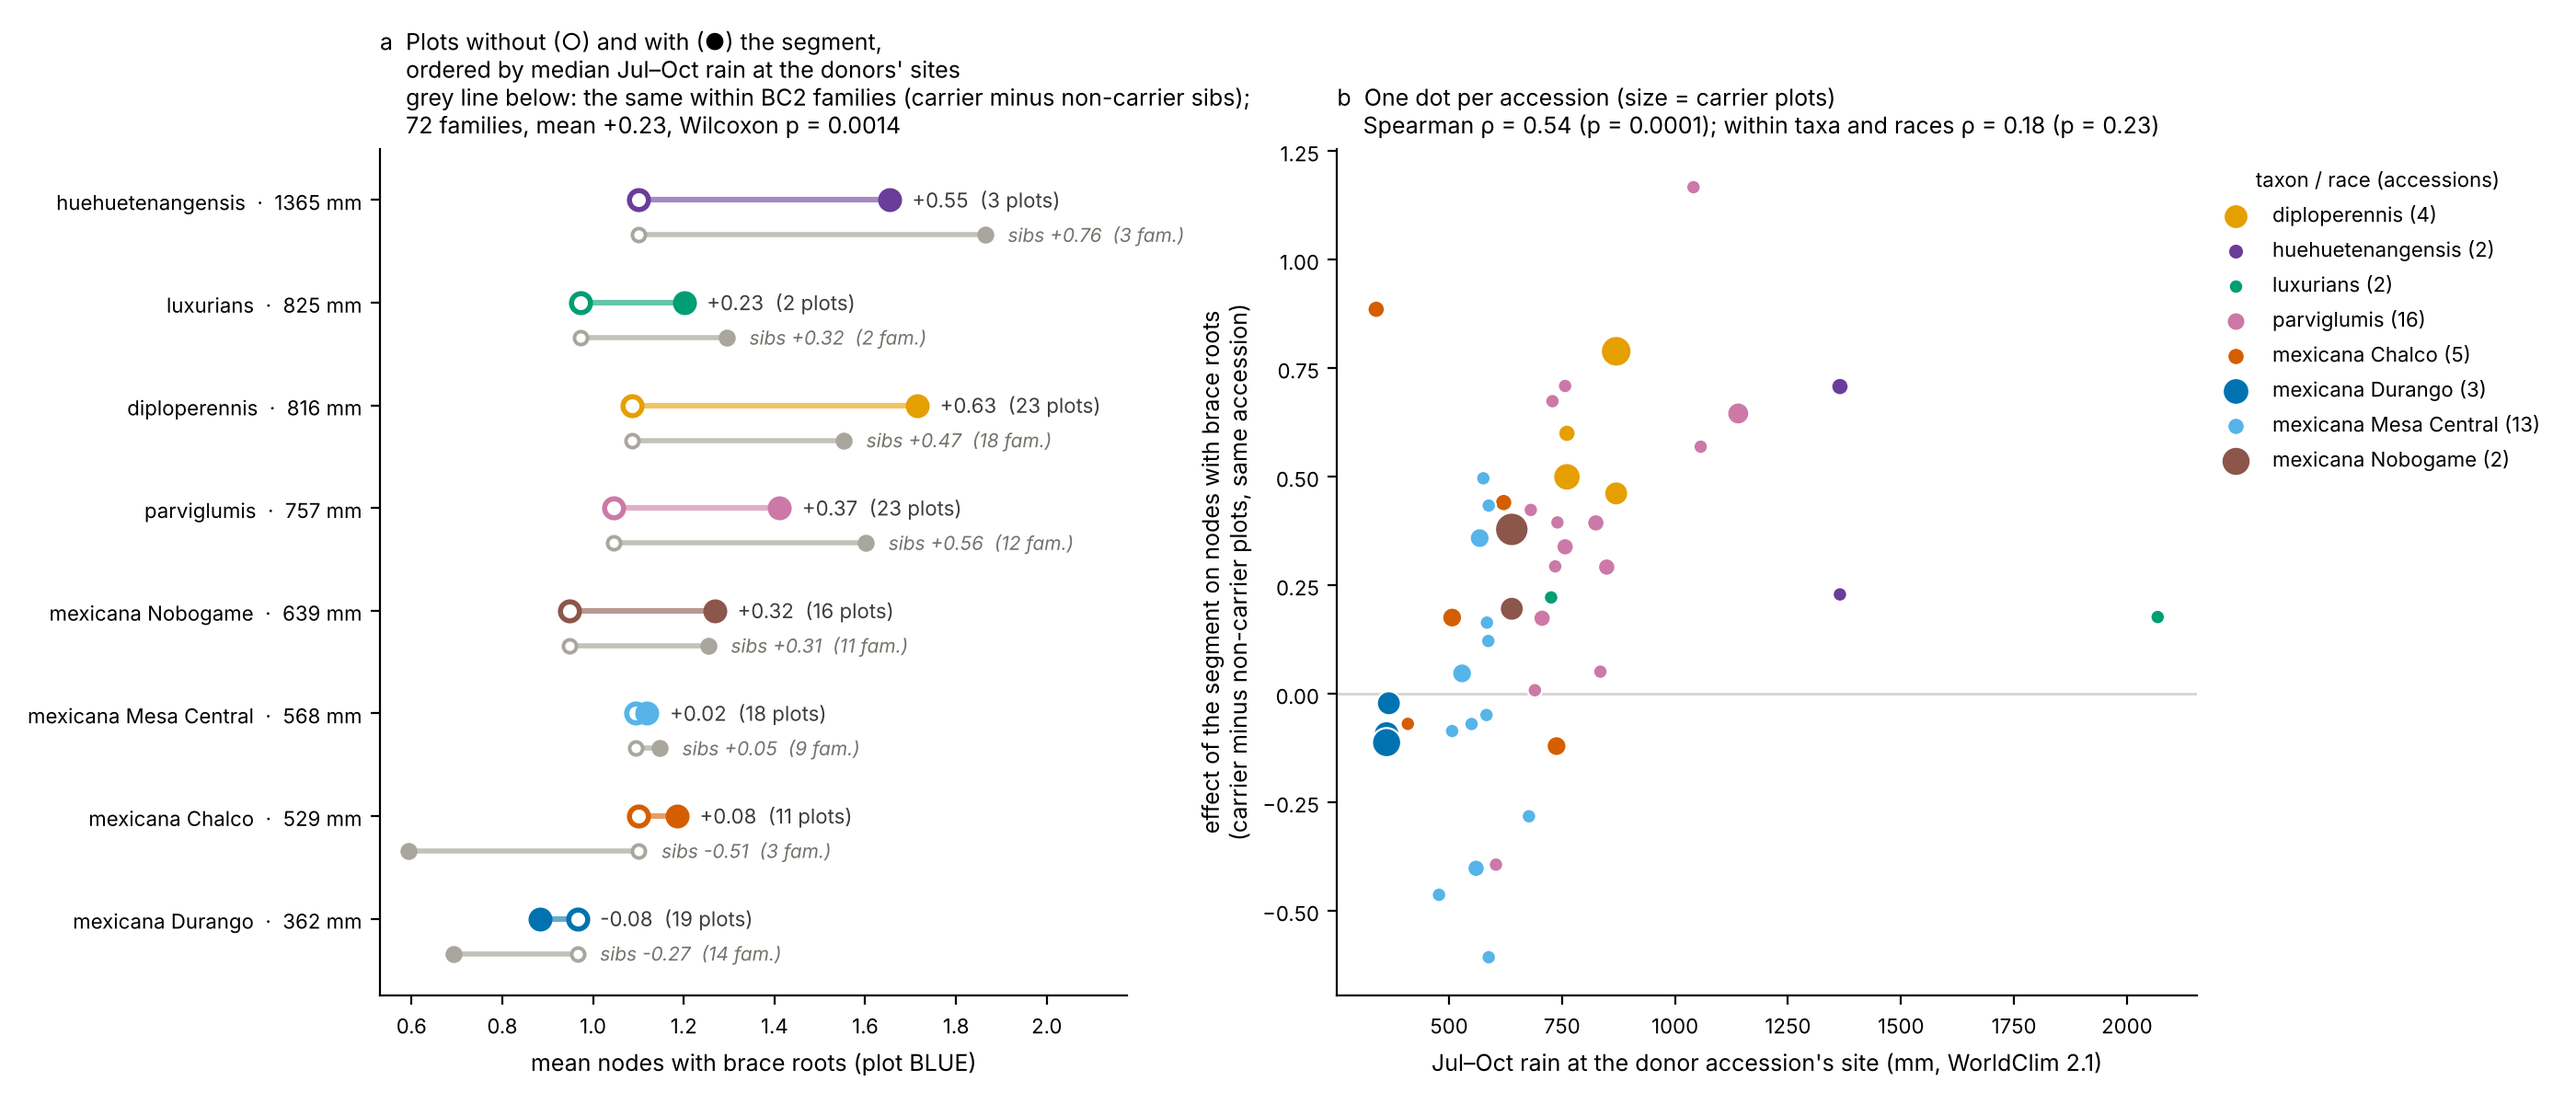
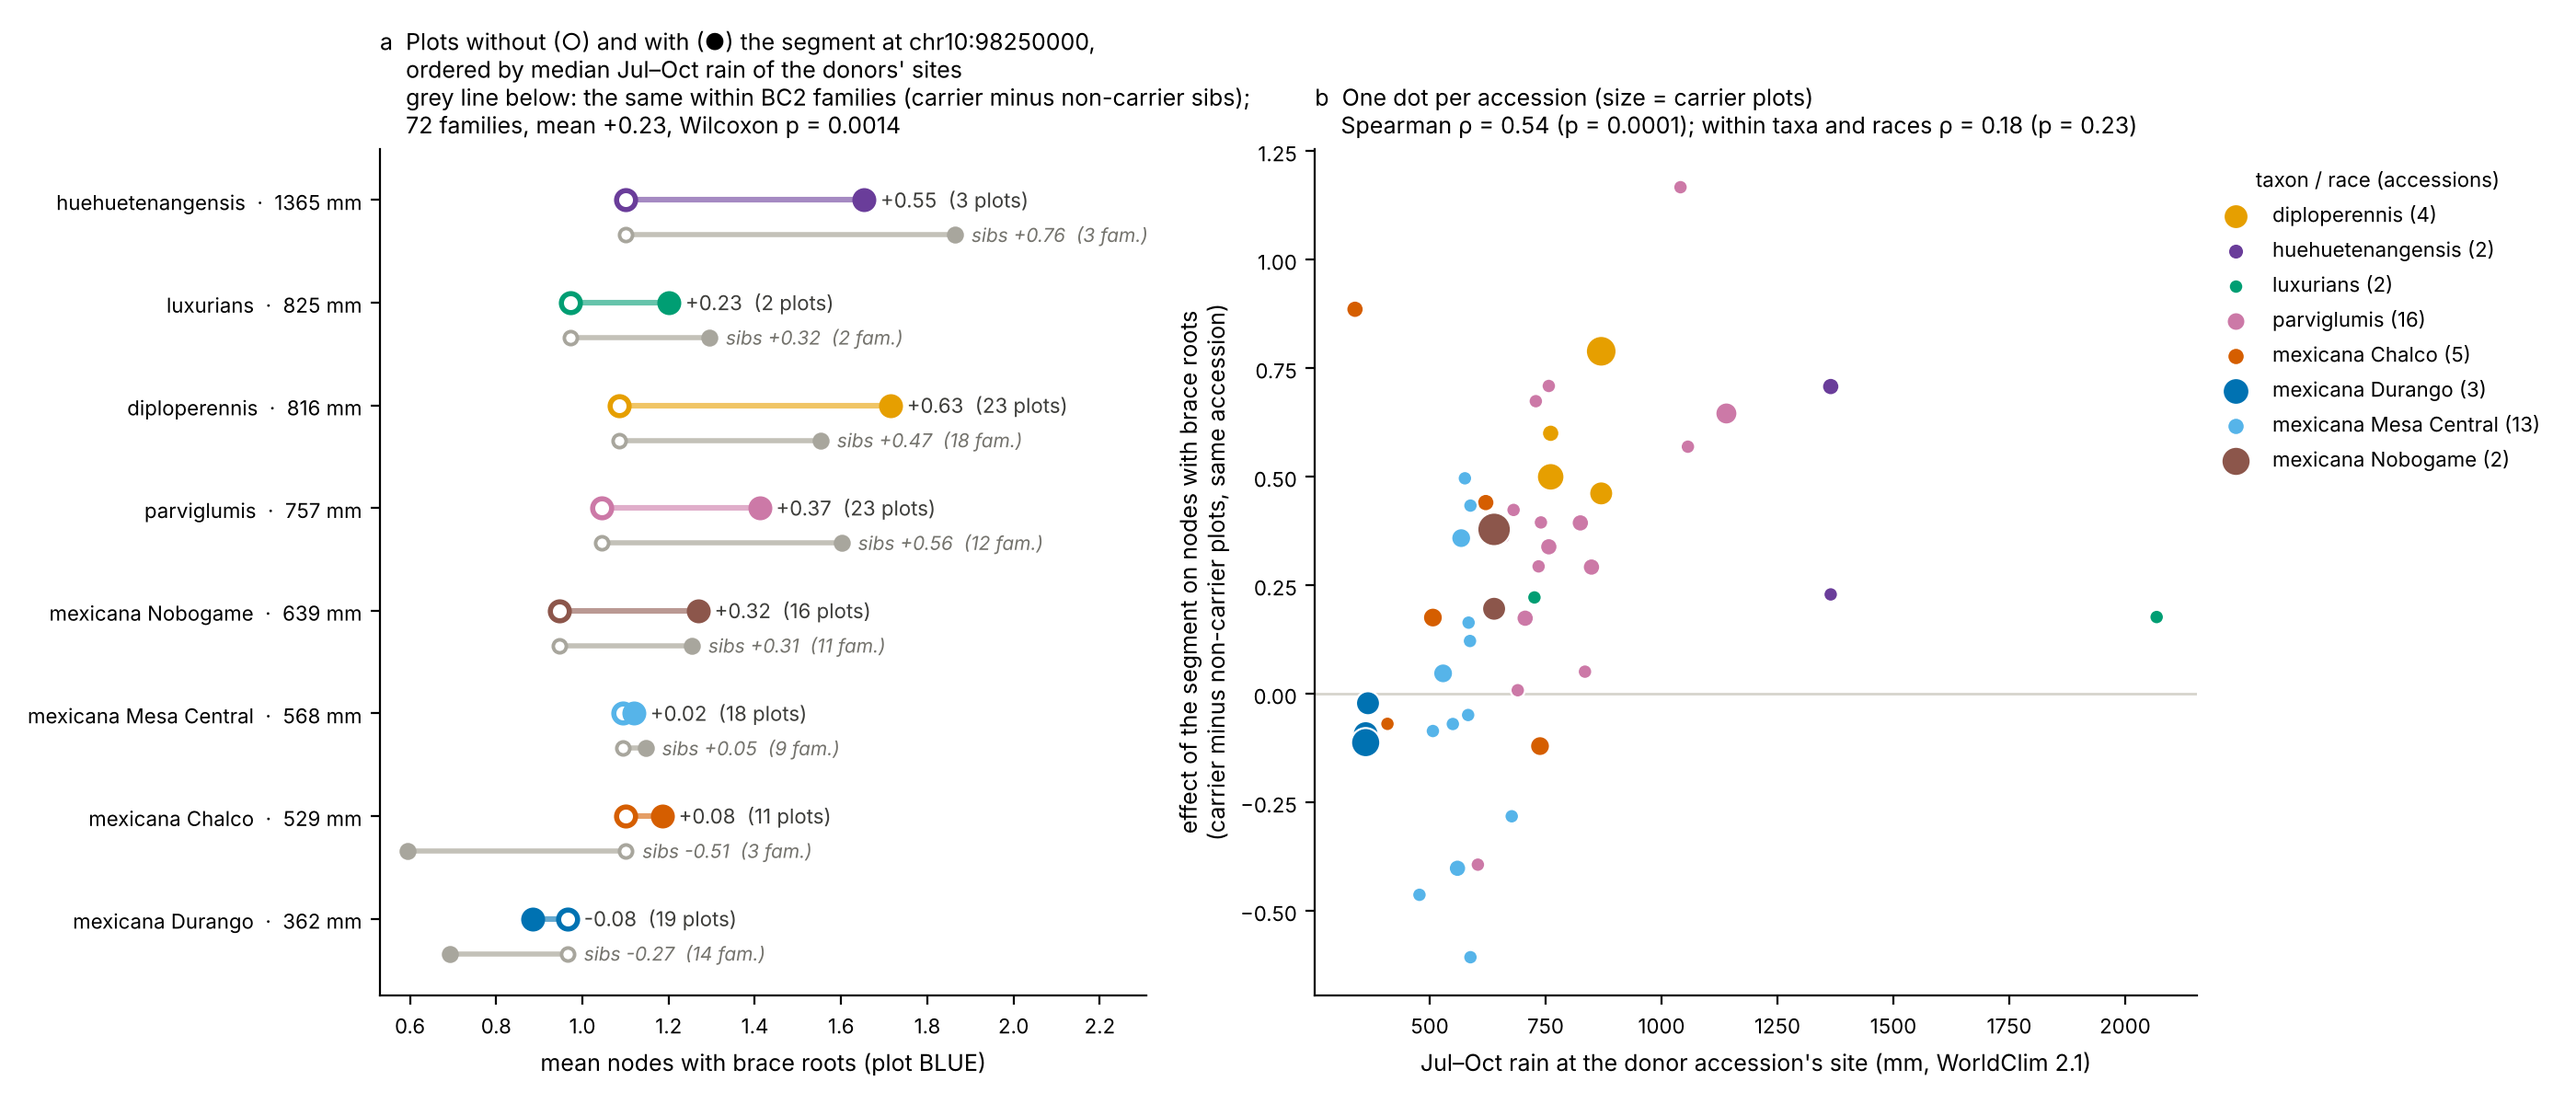
Flowering QTL (ZmCCT10, HDR1-like, MADS74) vs donor elevation: figures and text; 36e takes --env_layer

diff --git a/final_script/36e_qtl_rain_figure.py b/final_script/36e_qtl_rain_figure.py
@@ -1,16 +1,19 @@
 #!/usr/bin/env python3
 """
-36e — README figure for one QTL: does the teosinte segment add more to the trait when it comes from a wetter rainy
-season? Two panels, mexicana split into its four races (SUBTAXON):
-  a  per taxon/race, ordered by the median rainy-season rain at the donors' home sites: mean trait of plots WITHOUT
+36e — README figure for one QTL: does the teosinte segment's effect follow the environment of the donor's home site?
+Default: rainy-season rain (sum of --months, WorldClim 2.1 monthly, step 36c). With --env_layer: any column of
+data/env/BZea_accession_env.csv instead (e.g. elevation). Two panels, mexicana split into its four races (SUBTAXON):
+  a  per taxon/race, ordered by the median environment value at the donors' home sites: mean trait of plots WITHOUT
      the segment (open) and WITH it (filled), from the same taxon/race; in grey, the same difference within BC2
      families (sibs from the same BC2 plant, carriers minus non-carriers; families with at least one of each)
   b  one dot per donor accession: its effect (carrier minus non-carrier plots, same accession; as step 36b) against
-     its rainy-season rain (sum of the --months, WorldClim 2.1, step 36c); Spearman rho across accessions and within
+     its environment value; Spearman rho across accessions and within
      taxa/races (both centred on their group means)
 Usage (from the repo root; step-25 inputs and 36c output first):
   python final_script/36e_qtl_rain_figure.py --assoc_in $HOME/bzea_assoc_fix1 --monthly data/env/BZea_accession_monthly.csv \
      --trait NBR --window chr10:98250000 --out figures/fix1/NBR_Q8_rain.png
+  python final_script/36e_qtl_rain_figure.py --assoc_in $HOME/bzea_assoc_fix1 --monthly data/env/BZea_accession_monthly.csv \
+     --env_layer elevation --trait DTS --label "days to silking" --window chr10:97750000 --out figures/fix1/DTS_CCT10_elevation.png
 Needs: numpy, pandas, scipy, matplotlib.
 """
 import argparse
@@ -29,6 +32,9 @@ ap.add_argument("--trait", required=True)
 ap.add_argument("--window", required=True)
 ap.add_argument("--months", default="7 8 9 10", help="months summed as the rainy season (default July-October)")
 ap.add_argument("--label", default="nodes with brace roots", help="trait name on the axes")
+ap.add_argument("--env_layer", default="", help="a column of --env (e.g. elevation) instead of rainy-season rain")
+ap.add_argument("--env", default="data/env/BZea_accession_env.csv")
+ap.add_argument("--title", default="", help="text after 'segment at <window>' in panel a (e.g. the gene)")
 ap.add_argument("--out", required=True)
 a = ap.parse_args()
 MON = ["Jan", "Feb", "Mar", "Apr", "May", "Jun", "Jul", "Aug", "Sep", "Oct", "Nov", "Dec"]
@@ -44,8 +50,16 @@ P = P.rename(columns={P.columns[0]: "line"}).dropna(subset=[a.trait])
 P["acc"] = P.line.str.split("_").str[0]
 G = pd.read_csv(f"{a.assoc_in}/geno_dosage.csv", index_col=0, usecols=lambda c: c in ("Line", a.window))
 P["dos"] = G.loc[P.line, a.window].to_numpy()
-M = pd.read_csv(a.monthly).rename(columns={"accession-id": "acc"})
-M["rain"] = M[[f"prec_{m:02d}" for m in ms]].sum(axis=1)
+if a.env_layer:
+    M = pd.read_csv(a.env).rename(columns={"accession-id": "acc", a.env_layer: "rain"})
+    UNIT = "m" if a.env_layer.startswith("elev") else ""
+    ENVTXT = "elevation" if a.env_layer.startswith("elev") else a.env_layer
+    XLAB = f"{ENVTXT} of the donor accession's site" + (f" ({UNIT})" if UNIT else "")
+else:
+    M = pd.read_csv(a.monthly).rename(columns={"accession-id": "acc"})
+    M["rain"] = M[[f"prec_{m:02d}" for m in ms]].sum(axis=1)
+    UNIT, ENVTXT = "mm", f"{season} rain"
+    XLAB = f"{season} rain at the donor accession's site (mm, WorldClim 2.1)"
 P = P.merge(M[["acc", "rain"]], on="acc", how="left")
 P["car"] = P.dos > 0
 
@@ -81,32 +95,35 @@ rw, pw = spearmanr(cen.rain, cen.effect)
 
 fig, ax = plt.subplots(1, 2, figsize=(14, 6.0), gridspec_kw={"width_ratios": [1, 1.15]})
 y = np.arange(len(Gr))
+vals = pd.concat([Gr.non, Gr.wi, Gr.non + Gr.sib.fillna(0)])
+span = vals.max() - vals.min()
+off = 0.03 * span
 for i, q in Gr.iterrows():
     c = COL.get(q.g, "#888")
     ax[0].plot([q.non, q.wi], [i, i], color=c, lw=2.2, alpha=0.6, zorder=1)
     ax[0].scatter(q.non, i, s=55, facecolor="white", edgecolor=c, lw=2, zorder=2)
     ax[0].scatter(q.wi, i, s=70, color=c, zorder=3)
-    ax[0].text(max(q.non, q.wi) + 0.05, i, f"{q.wi - q.non:+.2f}  ({q.n_with} plots)", va="center", fontsize=8, color="#3d3d3a")
+    ax[0].text(max(q.non, q.wi) + off, i, f"{q.wi - q.non:+.2f}  ({q.n_with} plots)", va="center", fontsize=8, color="#3d3d3a")
     if q.n_fam:   # sibs: the within-family difference, drawn from the same starting point (open dot) in light grey
         ys, x1 = i - 0.34, q.non + q.sib
         ax[0].plot([q.non, x1], [ys, ys], color="#c3c1b8", lw=2, zorder=1)
         ax[0].scatter(q.non, ys, s=26, facecolor="white", edgecolor="#a8a69d", lw=1.4, zorder=2)
         ax[0].scatter(x1, ys, s=32, color="#a8a69d", zorder=3)
-        ax[0].text(max(q.non, x1) + 0.05, ys, f"sibs {q.sib:+.2f}  ({q.n_fam} fam.)", va="center", fontsize=7.5,
+        ax[0].text(max(q.non, x1) + off, ys, f"sibs {q.sib:+.2f}  ({q.n_fam} fam.)", va="center", fontsize=7.5,
                    color="#73726c", style="italic")
-ax[0].set_yticks(y, [f"{NAME.get(g, g)}  ·  {rr:.0f} mm" for g, rr in zip(Gr.g, Gr.rain)], fontsize=8.5)
+ax[0].set_yticks(y, [f"{NAME.get(g, g)}  ·  {rr:.0f} {UNIT}" for g, rr in zip(Gr.g, Gr.rain)], fontsize=8.5)
 ax[0].set_xlabel(f"mean {a.label} (plot BLUE)", fontsize=9)
-ax[0].set_title(f"a  Plots without (○) and with (●) the segment,\n    ordered by median {season} rain at the donors' sites\n"
+ax[0].set_title(f"a  Plots without (○) and with (●) the segment at {a.window}{(' (' + a.title + ')') if a.title else ''},\n    ordered by median {ENVTXT} of the donors' sites\n"
                 f"    grey line below: the same within BC2 families (carrier minus non-carrier sibs);\n"
                 f"    {len(Fm)} families, mean {Fm['diff'].mean():+.2f}, Wilcoxon p = {p_sib:.2g}",
                 fontsize=9, loc="left")
-ax[0].set_xlim(right=ax[0].get_xlim()[1] + 0.25)
+ax[0].set_xlim(right=ax[0].get_xlim()[1] + 0.3 * span)
 ax[0].set_ylim(-0.75, len(Gr) - 0.5)
 for g, d in A.groupby("g"):
     ax[1].scatter(d.rain, d.effect, s=18 + 14 * d.n, color=COL.get(g, "#888"), edgecolor="white", lw=0.8,
                   label=f"{NAME.get(g, g)} ({len(d)})", zorder=2)
 ax[1].axhline(0, color="#d6d4cc", lw=1, zorder=0)
-ax[1].set_xlabel(f"{season} rain at the donor accession's site (mm, WorldClim 2.1)", fontsize=9)
+ax[1].set_xlabel(XLAB, fontsize=9)
 ax[1].set_ylabel(f"effect of the segment on {a.label}\n(carrier minus non-carrier plots, same accession)", fontsize=9)
 ax[1].set_title(f"b  One dot per accession (size = carrier plots)\n    Spearman ρ = {r:.2f} (p = {p:.1g}); "
                 f"within taxa and races ρ = {rw:.2f} (p = {pw:.2g})", fontsize=9, loc="left")

diff --git a/README.md b/README.md
@@ -1367,6 +1367,16 @@ Two QTL pass the 1,000-permutation threshold (−log10 p > 5.50), and both hold 
 
 > **Note: two very late *luxurians* plots.** Two 2023 plots, `Zl.0010_P1_P2_P2.3.1.1` and `Zl.0040_P4_P1_P2.2.1.1`, flowered very late (DTA 114 d against a median of 87 d; DTS 129 and 114 d). The fieldbook has them like this in every rep and notes the plants as short, with few or no shoots, so the values are real, not typing errors, and the plots are kept. Both carry two teosinte copies at chr5 221.8 Mb, and they make Q1 look stronger than it is: with their flowering values set to missing (step 26 rerun, same inputs), the DTS scan at 221.8 Mb drops from 9.4 to 4.6 (best chr5 window 5.5 at 218.8 Mb, at the threshold). The QTL does not rest on them alone: in 2025, when these lines were not grown, chr5 is above the 2025 threshold of 4.33 (4.8 at 221.8 Mb, 5.5 at 225.4 Mb). The large *luxurians* effect (+4.77 d) should be read with these two plots in mind. *ZmCCT10* (Q2) does not depend on them (9.1 → 11.8 without them).
 
+**Does the effect depend on the donor's elevation? Not clearly.** As for brace roots (NBR Q8, rain), we asked whether a flowering QTL's teosinte effect changes with where the donor was collected, here with elevation (80 to 2,713 m), since highland and lowland teosintes flower under different day lengths and temperatures (steps 36 and 36e; same layout as the NBR figure).
+
+![DTS at ZmCCT10 against the elevation of the donor's site](figures/fix1/DTS_CCT10_elevation.png)
+
+- **ZmCCT10 (Q2):** the segment delays silking at every elevation and in every taxon and race (+0.6 to +1.9 d; *luxurians*, the lowest, +5.6 d but from only 2 plots). Within BC2 families the sibs with the segment silk later too: +1.29 d over 74 families (Wilcoxon p = 3 × 10⁻⁵), so the effect is not a background difference. Per accession, the effect is a little larger from lower sites (Spearman ρ = −0.28, p = 0.05), but over all plots it does not change with elevation (−0.08 d per copy per SD of elevation, p = 0.63; within taxa −0.22, p = 0.39; step 36, `data/introgression_fix1/env/DTS_env.tsv`). So the teosinte *ZmCCT10* allele delays flowering about equally whatever the altitude it came from.
+- **HDR1-like (Q1, chr5):** no relation with elevation (per accession ρ = 0.06, p = 0.68; over all plots p = 0.45). The large *luxurians* effect here includes the two very late plots of the note above ([figure](figures/fix1/DTS_HDR1_elevation.png)).
+- **MADS74 (DTA Q4, chr9 10.9 Mb):** the segment makes plants shed pollen earlier (sibs −0.51 d over 112 families, p = 0.012), slightly less so from higher sites (per accession ρ = 0.26, p = 0.05; within taxa and races p = 0.14; over all plots p = 0.34) ([figure](figures/fix1/DTA_MADS74_elevation.png)).
+
+Unlike brace roots and rain, none of these flowering QTL changes clearly with the donor's elevation. The only exception is DTA Q1 (chr1 84.5 Mb), whose effect is larger from lower sites (−0.77 d per copy per SD, p = 0.001), but that QTL is the *luxurians* lead from a few plots of the DTA note.
+
 <details><summary>All DTS QTL with per-taxon effects and all genes in the interval</summary>
 
 | QTL | Position | Interval (Mb) | Scan −log10 p | Effect per copy (joint) | Joint −log10 p | Taxa differ −log10 p | Per-taxon effects (carrier plots) | Genes in interval | Top windows, Mb (genes) | Best window PIP |
